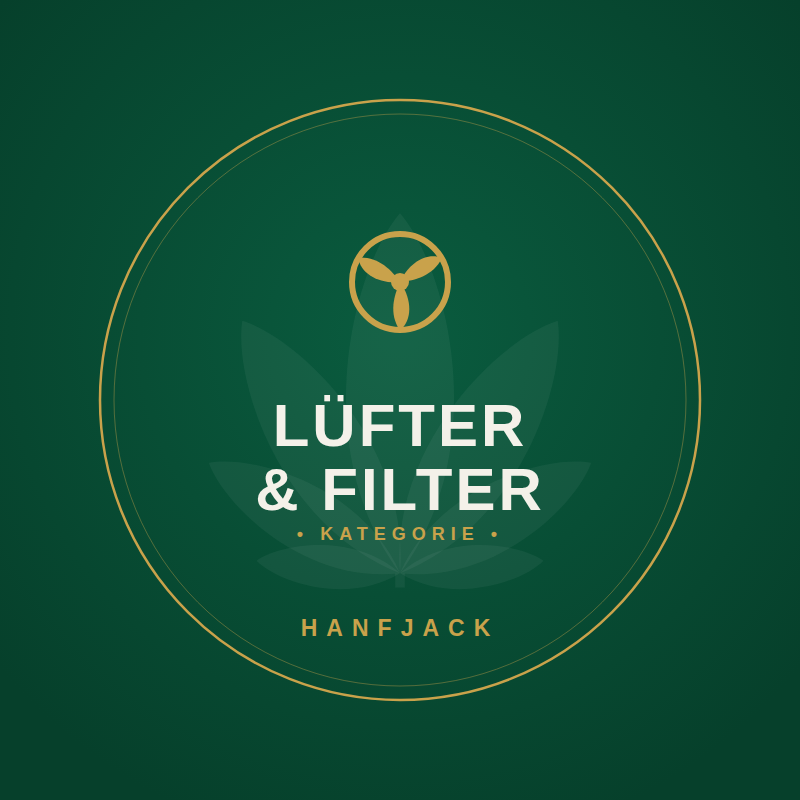
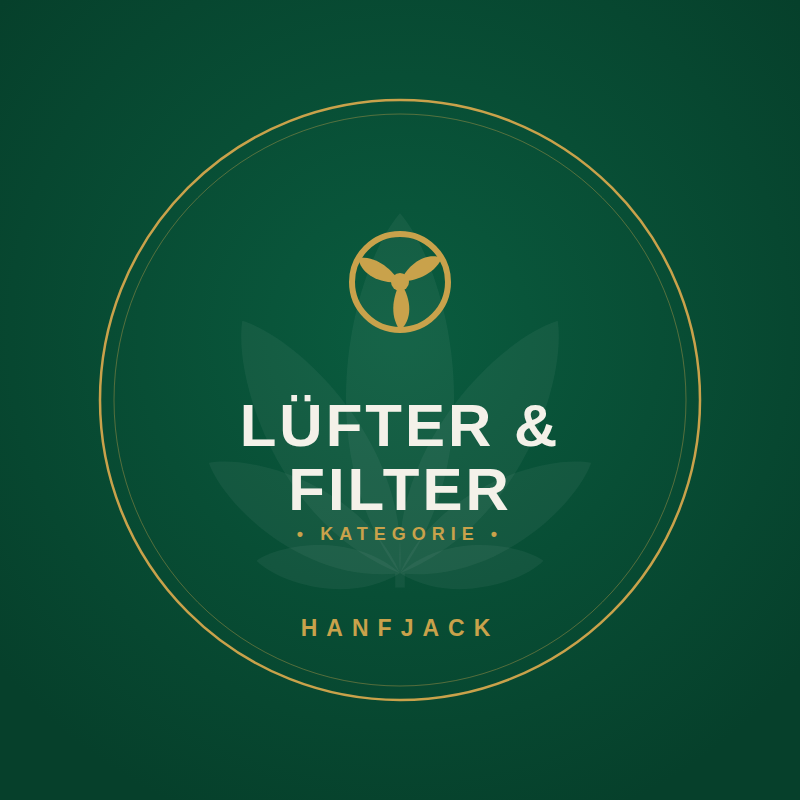
Kategoriekacheln: 8 .de-Nachzuegler, 13 .com-eigene, 2 Korrekturen
- Icons magnifier, cap, poster ergaenzt (41 gesamt)
- CATS: 8 .de-Kategorien nachgetragen, die bisher keine Kachel hatten
  (Luftfilter, Ersatzfilter, Vapes & Pods, 4x AutoPot, Lupen & Mikroskope)
- CATS_COM: 13 Kategorien, die es nur auf hanfjack.com gibt
  (Merch-Unterkategorien, Pflege & Reinigung, CBD Vapes).
  Dateipraefix "com", damit .com-Term-IDs nicht mit .de-IDs verwechselt werden.
- Neu gerendert: 539 Luefter & Filter und 5423 Feuerzeuge & Zippo.
  Durch die "&"-Umbruchregel steht das & jetzt am Zeilenende wie im Rest.

94 Bestandskacheln bleiben pixelgenau unveraendert.

Claude-Session: https://claude.ai/code/session_01ABEhtsQuM2rUCfaR86aM6v

Changed region(s): [[0.2812, 0.5, 0.6875, 0.6562]]

diff --git a/tools/category-tiles/tiles.py b/tools/category-tiles/tiles.py
@@ -147,13 +147,27 @@ def i_press():
 <rect x="36" y="51" width="28" height="12" rx="3" fill-opacity="0.5"/>
 <rect x="26" y="82" width="48" height="8" rx="3"/></g>'''
 
+def i_magnifier():
+    return f'<g fill="none" stroke="{GOLD}" stroke-width="7"><circle cx="43" cy="43" r="24"/></g>' \
+           f'<line x1="60" y1="60" x2="82" y2="82" stroke="{GOLD}" stroke-width="9" stroke-linecap="round"/>'
+def i_cap():
+    crown='M22,62 a28,28 0 0 1 56,0 z'
+    peak='M20,62 h60 a6,6 0 0 1 6,6 v4 a3,3 0 0 1 -3,3 H17 a3,3 0 0 1 -3,-3 v-4 a6,6 0 0 1 6,-6 z'
+    return f'<g fill="{GOLD}" stroke="none"><path d="{crown}"/><path d="{peak}"/><circle cx="50" cy="30" r="4" fill="{G}"/></g>'
+
+def i_poster():
+    frame='M28,16 h44 a4,4 0 0 1 4,4 v60 a4,4 0 0 1 -4,4 h-44 a4,4 0 0 1 -4,-4 v-60 a4,4 0 0 1 4,-4 z'
+    inner='M32,24 h36 v48 h-36 z'
+    return f'<g fill="{GOLD}" stroke="none"><path fill-rule="evenodd" d="{frame} {inner}"/>' \
+           f'<path d="M34,70 l11,-16 8,10 7,-11 10,17 z"/><circle cx="41" cy="34" r="4"/></g>'
+
 ICONS={
  'leaf':i_leaf,'seedling':i_seedling,'lamp':i_lamp,'bottle':i_bottle,'filter':i_filter,'drop':i_drop,'fan':i_fan,
  'tent':i_tent,'box':i_box,'sack':i_sack,'gear':i_gear,'flame':i_flame,'bug':i_bug,'pot':i_pot,'scissors':i_scissors,
  'glove':i_glove,'gauge':i_gauge,'bong':i_bong,'pipe':i_pipe,'vape':i_vape,'joint':i_joint,'papers':i_papers,
  'ashtray':i_ashtray,'jar':i_jar,'grinder':i_grinder,'tray':i_tray,'lighter':i_lighter,'tube':i_tube,'scale':i_scale,
  'paw':i_paw,'mug':i_mug,'shaker':i_shaker,'seed':i_seed,'tshirt':i_tshirt,'percent':i_percent,'mystery':i_mystery,
- 'book':i_book,'roll':i_roll,'press':i_press,
+ 'book':i_book,'roll':i_roll,'press':i_press,'magnifier':i_magnifier,'cap':i_cap,'poster':i_poster,
 }
 
 # category id -> (Display Name, icon)
@@ -184,6 +198,21 @@ CATS={
 16452:("Curing & Lagerung","jar"),16453:("Bücher","book"),16454:("Geruchsneutralisation","bottle"),
 16455:("Pflanzzubehör","pot"),16456:("Folien & Reflexion","roll"),16457:("Trimmer & Erntehelfer","scissors"),
 16458:("Zeltzubehör","tent"),16527:("Extraktion & Pressen","press"),
+# --- .de-Nachzuegler ohne Kachel (09/2026) ---
+15521:("Luftfilter","filter"),15523:("Ersatzfilter","filter"),15550:("Vapes & Pods","vape"),
+15557:("AutoPot Komplettsysteme","box"),15558:("AutoPot Töpfe & Untersetzer","pot"),
+15559:("AutoPot Verrohrung & Ventile","drop"),15560:("AutoPot Tanks & Zubehör","drop"),
+16087:("Lupen & Mikroskope","magnifier"),
+}
+
+# Kategorien, die es nur auf hanfjack.com gibt (Term-IDs von .com).
+# Dateiname bekommt das Praefix "com", damit es keine Verwechslung mit .de-IDs gibt.
+CATS_COM={
+160:("Pflege & Reinigung","bottle"),5898:("T-Shirts","tshirt"),5899:("Hoodies","tshirt"),
+5900:("Mützen","cap"),5901:("Caps","cap"),5902:("Handtücher","tshirt"),
+5903:("Becher & Tassen","mug"),5904:("Poster","poster"),5905:("Untersetzer","tray"),
+5906:("Kissen","tshirt"),5907:("Wasserflaschen","bottle"),5908:("Smartphone Cover","box"),
+6205:("CBD Vapes","vape"),
 }
 
 def icon_slot(inner,cx=400,cy=282,target=150):
@@ -252,6 +281,10 @@ if __name__=="__main__":
         idx=[]
         for cid,(name,icon) in CATS.items():
             fn=f"{cid}_{slug(name)}"
+            open(os.path.join(out,fn+".html"),"w").write(wrap(tile(name,icon)))
+            idx.append((cid,name,icon,fn))
+        for cid,(name,icon) in CATS_COM.items():
+            fn=f"com{cid}_{slug(name)}"
             open(os.path.join(out,fn+".html"),"w").write(wrap(tile(name,icon)))
             idx.append((cid,name,icon,fn))
         import json; open(os.path.join(out,"index.json"),"w").write(json.dumps(idx,ensure_ascii=False))
